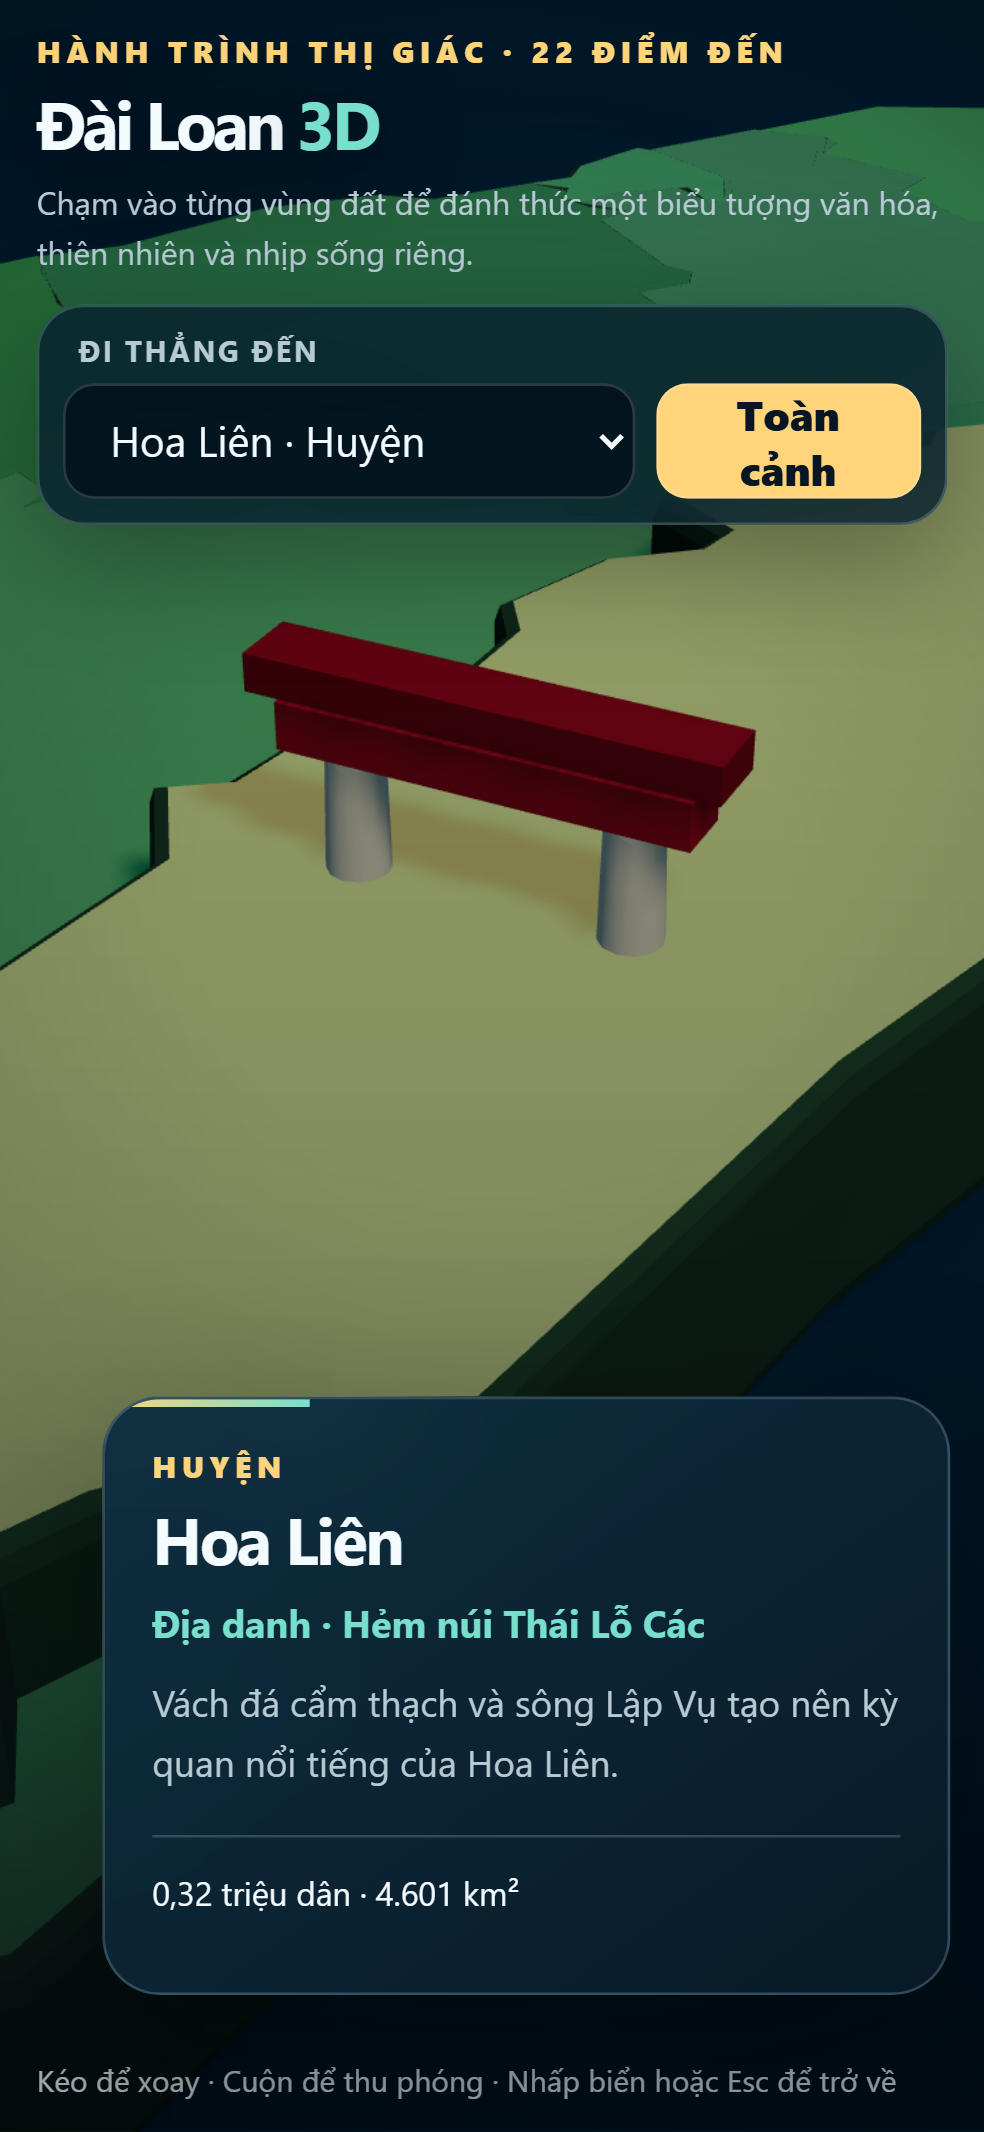
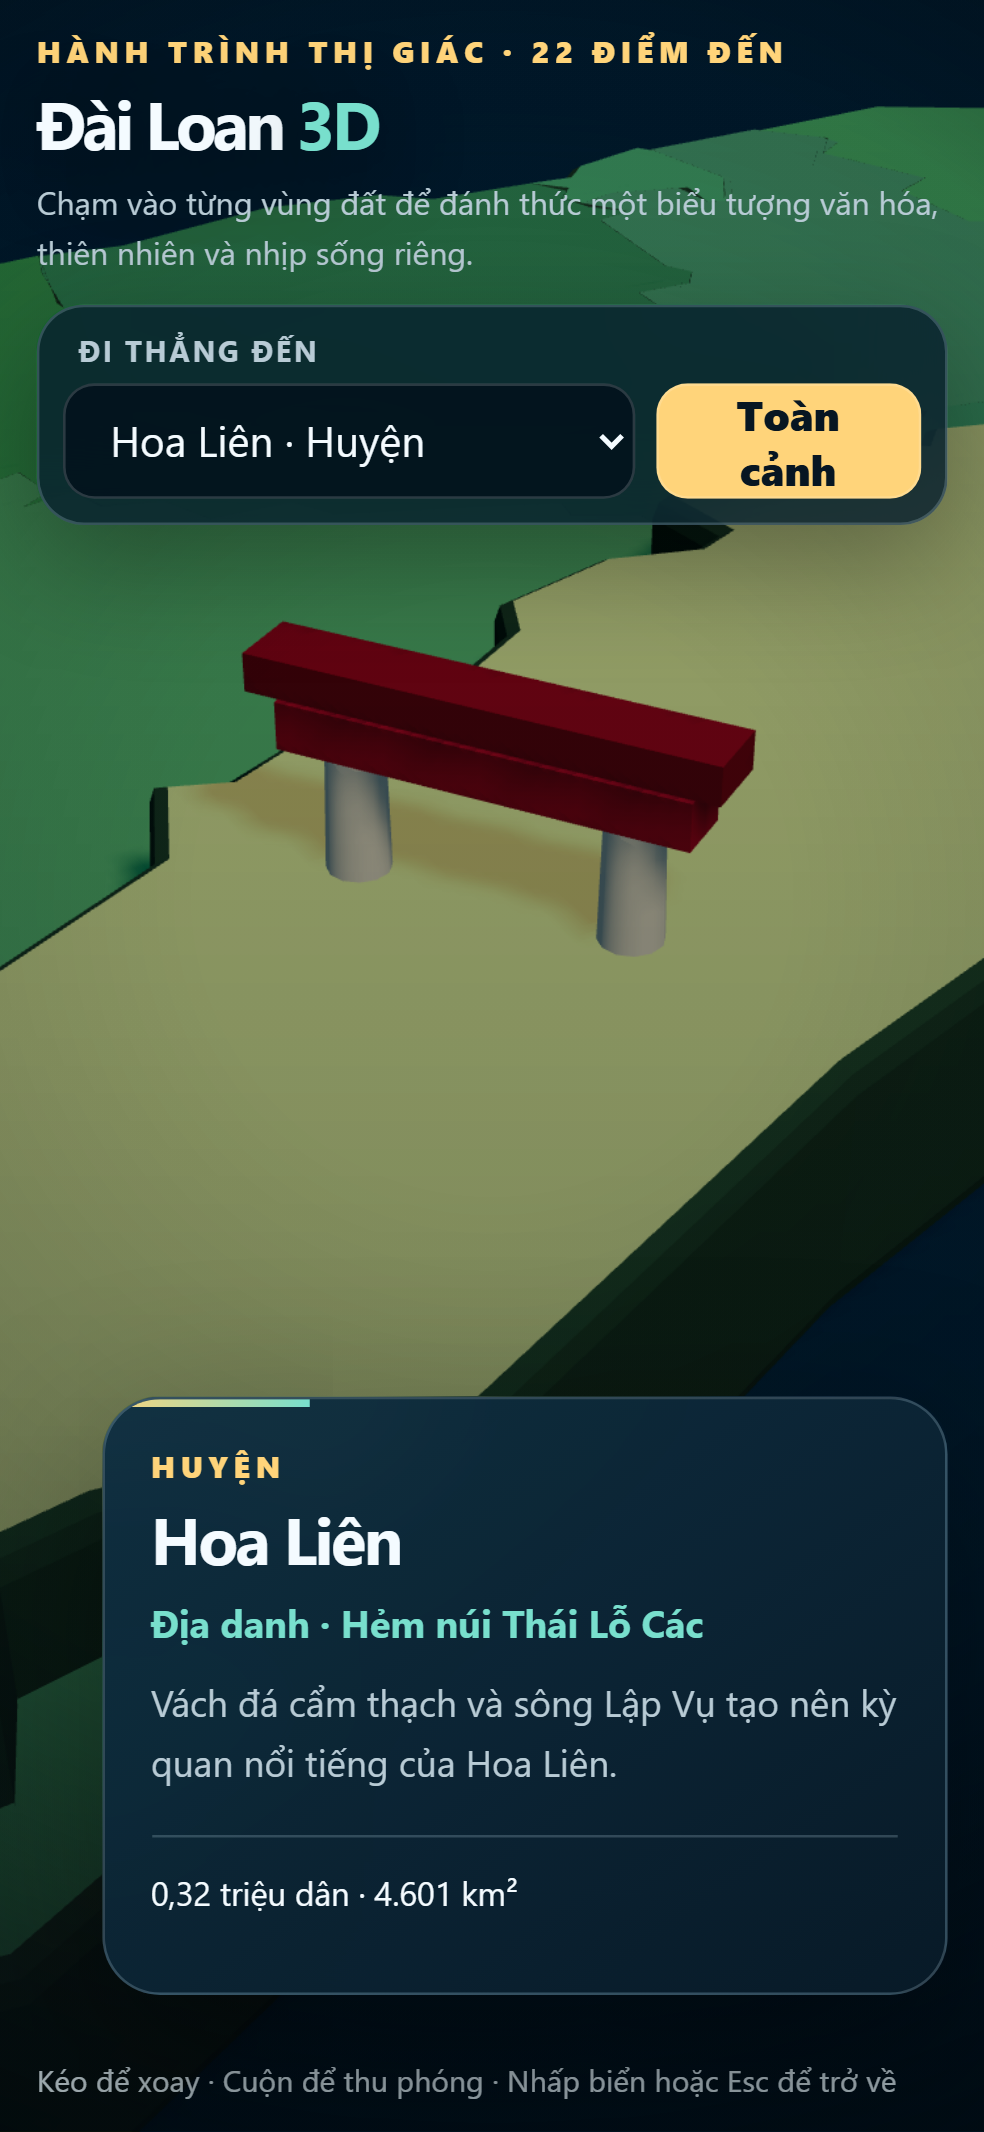
test: make visual evidence deterministic

diff --git a/tests/e2e/app.spec.js b/tests/e2e/app.spec.js
@@ -17,6 +17,7 @@ test.describe('Taiwan 3D map acceptance', () => {
   test('S05 boots WebGL with 22 provinces and no runtime errors', async ({ page }, testInfo) => {
     test.skip(testInfo.project.name !== 'desktop-chromium', 'desktop visual contract');
     const errors = await collectRuntimeErrors(page);
+    await page.emulateMedia({ reducedMotion: 'reduce' });
     await page.goto('/');
     await expect(page.locator('#app-status')).toHaveAttribute('data-state', 'ready');
     await expect(page.locator('canvas')).toHaveCount(1);
@@ -64,6 +65,7 @@ test.describe('Taiwan 3D map acceptance', () => {
 
   test('S11/S12 mobile selection fits without horizontal overflow', async ({ page }, testInfo) => {
     test.skip(testInfo.project.name !== 'mobile-chromium', 'mobile contract');
+    await page.emulateMedia({ reducedMotion: 'reduce' });
     await page.goto('/');
     await expect(page.locator('#app-status')).toHaveAttribute('data-state', 'ready');
     await page.selectOption('#province-select', 'hualien');
